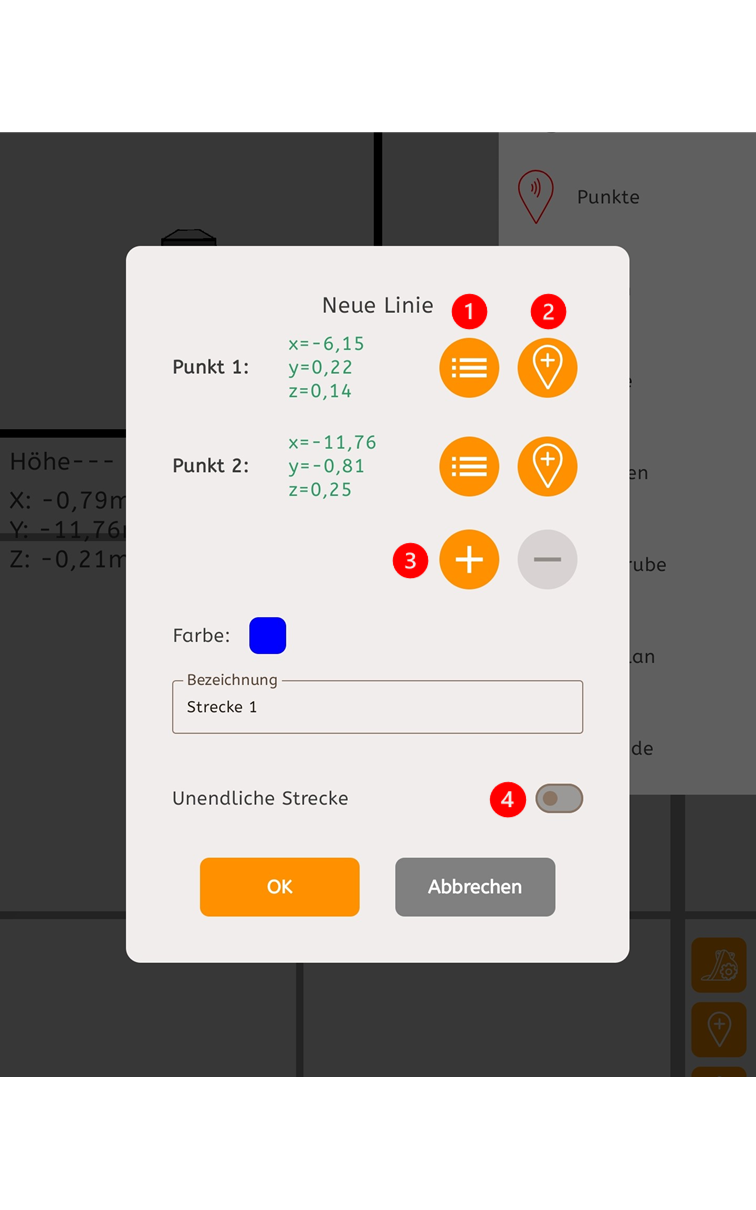
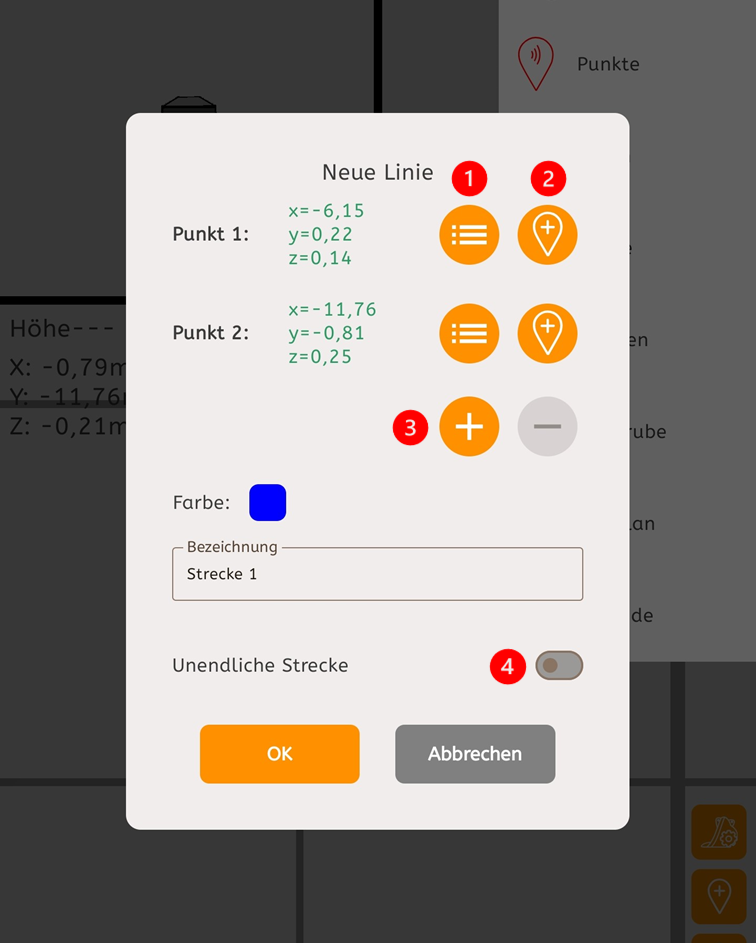
Überarbeitung Kastenelemente | Allgemein

diff --git a/docs/Flächen/Flächen.md b/docs/Flächen/Flächen.md
@@ -14,10 +14,11 @@ Diese Seite befindet sich gerade in Bearbeitung.
 
 Das Erstellen von horizontalen und geneigten Flächen über einen oder optional mehrere Punkte, ist eine der wichtigsten Arbeitsfunktionen der 3D-basierten App-Anwendung des excav PILOT.
 
-Das aktuell ausgewählte Werkzeug oder Sensor wird in der primären Arbeitsansicht räumlich im Verhältnis zur aktiven Fläche dargestellt (farblich in einem dunkleren Grauton abgehoben) sowie in der Frontal- und Seitenansicht im oberen Bildschirmabschnitt. 
+Das aktuell ausgewählte Werkzeug oder Sensor wird in der primären Arbeitsansicht räumlich im Verhältnis zur aktiven Fläche dargestellt (farblich in einem dunkleren Grauton abgehoben) sowie in der Frontal- und Seitenansicht im oberen Bildschirmabschnitt.
 
-!!! info "Information"
-Die Höhenangabe der Fläche bezieht sich auf die Höhenangabe zum Meeresspiegel (exakt 0 Höhenmeter) und kann sich abhängig vom Standort innerhalb von Deutschland und anderswo erheblich unterscheiden. Die für die Arbeit auf der Baustelle vor Ort erforderlichen Angaben zur Positionsbestimmung werden über die Angaben der x-,y- und z-Koordinate dargestellt. 
+
+!!! info "Höhenangabe und Positionsbestimmung"
+    Die Höhenangabe der Fläche bezieht sich auf die Höhenangabe zum Meeresspiegel (exakt 0 Höhenmeter) und kann sich abhängig vom Standort innerhalb von Deutschland und anderswo erheblich unterscheiden. Die für die Arbeit auf der Baustelle vor Ort erforderlichen Angaben zur Positionsbestimmung werden über die Angaben der x-,y- und z-Koordinate dargestellt. 
 
 
 ## Neue Flächen erstellen
@@ -46,10 +47,13 @@ Mit folgenden Funktionen lässt sich die gewünschte Fläche im Raum präziser b
 
 **<span style="color: red; font-weight: bold;">2: &nbsp;</span> Höhenversatz** | Der Faktor Höhenversatz beträgt standardmäßig 0.0 und kann sowohl in Zentimeter (cm) sowie in Meter (m) dargestellt werden. Als Ausrichtungsoptionen kommen die vertikale und orthogonale Ausrichtung infrage. Die Unterschiede zwischen beiden Optionen werden in einem kleinen Informationsfenster näher erklärt. Der Wert des Höhenversatzes kann sowohl positiv als auch negativ sein. 
 
-!!! info "Information"
-Für das Erstellen einer neuen Fläche können sowohl bereits vorhandene Punkte der Punkteliste verwendet oder gänzlich neu eingemessene Punkte verwendet werden. Wir empfehlen Punkte zu verwenden, die bereits zuvor genau bestimmt und eingemessen wurden, um eine Fläche im Bedarfsfall leichter erneut anlegen zu können. 
 
-Über das Zahnrad-Symbol oben rechts öffnet sich das Einstellungs-Fenster. Hier können Sie auswählen, welche Informationen zu den Flächen in Ihrer Flächen-Liste angezeigt werden sollen, darunter den Typ sowie den optional vergebenen Wert des Höhenversatzes einer Fläche.
+!!! info "Tipps zur Flächenerstellung"
+    Für das Erstellen einer neuen Fläche können sowohl bereits vorhandene Punkte der Punkteliste verwendet oder gänzlich neu eingemessene Punkte verwendet werden. Wir empfehlen Punkte zu verwenden, die bereits zuvor genau bestimmt und eingemessen wurden, um eine Fläche im Bedarfsfall leichter erneut anlegen zu können. 
+    
+    Über das Zahnrad-Symbol oben rechts öffnet sich das Einstellungsfenster. Hier können Sie auswählen, welche Informationen zu den Flächen in Ihrer Flächen-Liste angezeigt werden sollen, darunter den Typ sowie den optional vergebenen Wert des Höhenversatzes einer Fläche. 
+
+
 
 ## Eine 1-Punkt Fläche erstellen
 

diff --git a/docs/Bauplan/Bauplan.md b/docs/Bauplan/Bauplan.md
@@ -22,7 +22,7 @@ Wählen Sie in der Arbeitsansicht unten rechts das Füller-Icon aus und dann Bau
 
 Klicken Sie auf "PDF importieren" und wählen Sie das entsprechende .pdf aus der Liste aus.
 
-!!! info "Wichtig"
+!!! info "Datei lokal ablegen"
     Sie müssen die .pdf-Datei zuerst auf das Tablet spielen, indem Sie z.B. das Tablet per USB-C-Kabel mit ihrem Rechner verbinden und den entsprechenden Bauplan als .pdf Datei ablegen. Der Ablageort ist nicht wichtig, Ihnen werden in der Liste alle Dateien im internen Speicher des Tablets vom Dateityp .pdf angezeigt.
 
 
@@ -34,7 +34,7 @@ Klicken Sie auf "PDF importieren" und wählen Sie das entsprechende .pdf aus der
 
 Jetzt müssen wir den Bauplan noch maßstabsgetreu einmessen. Dafür benötigen wir zwei Punkte auf der Baustelle (**Reale Punkte**), welche auch auf dem Bauplan bekannt sind. Zum Beispiel Grenzsteine oder ein Schachtdeckel. Wir tasten die Punkte z.B. mit dem Rover-Stab an und wählen dann im gleichen Zuge die genaue Position des Punktes auf dem .pdf aus (**pdf Punkte**), indem wir das orange Fadenkreuz so exakt wie möglich an die korrekte Stelle im .pdf bewegen.
 
-!!! info "Genauigkeit"
+!!! info "Genauigkeit und Entfernung"
     Umso weiter die realen Punkte voneinander entfernt liegen, desto weniger kritisch sind kleine Positionsfehler zwischen realem Punkt und .pdf-Punkt. Deshalb empfehlen wir die Punkte mindestens mehrere Meter voneinander entfernt auszuwählen. Idealerweise so weit auseinander wie möglich. 
 
 **<span style="color: red; font-weight: bold;">1: &nbsp;</span>** Realen Punkt auf der Baustelle aus der Punkte-Liste auswählen. 
@@ -57,13 +57,13 @@ Gleiches Prozedere auch noch für Punkt 2.
 
 Jetzt noch mit "OK" bestätigen und der Bauplan wird so skaliert und rotiert, sodass er maßstabsgetreu mit korrekter Orientierung in der Arbeitsansicht angezeigt wird. 
 
-!!! info "Nur im 2D-Modus sichtbar"
+!!! info "PDF nur im 2D-Modus sichtbar"
     Der .pdf-Bauplan ist nur im 2D-Modus sichtbar. Siehe [Arbeitsansicht - Hauptarbeitsbereich]() Ziffer **<span style="color: red; font-weight: bold;">3</span>**.
 
-!!! warning ".pdf-Plan enthält keine Höhen"
+!!! warning "PDF-Plan enthält keine Höhen"
     Höhen müssen Sie selbst noch aufnehmen, indem Sie sich z.B. mit dem Rover-Stab auf dem .pdf-Plan orientieren und alle wichtigen [Punkte erfassen](). 
 
-!!! warning "Leichte Ungenauigkeiten bei manchen .pdf-Varianten"
+!!! warning "Leichte Ungenauigkeiten bei manchen Varianten"
     @Emu
 
 

diff --git a/docs/Geräte/Geräte.md b/docs/Geräte/Geräte.md
@@ -58,12 +58,11 @@ In der Ansicht oben wurde im ersten Schritt beispielsweise der GNSS-Sensor verbu
 
 
 !!! warning "Probleme und Problembehebung im Umgang mit den Geräten"
-
-Prüfen Sie zunächst, ob die Internetverbindung über mobile Daten sowie Bluetooth aktiv sind. Zudem müssen beide Geräte ausreichend Akkuleistung verfügen, idealerweise mehr als 20 %, da sonst die Verbindungsqualität und die Performanz darunter leiden können. 
-
-Normalerweise wird (falls mehrere Sensoren zur Verfügung stehen bzw. standen) der letzte aktiv gekoppelte Sensor angezeigt. Sollte der gewünschte Sensor bereits mit der App eines anderen Tablets gekoppelt sein, ist kein Verbindungsaufbau möglich. Hierfür muss zunächst auf dem anderen Tablet die Verbindung zum Sensor beendet werden, bevor Sie ihn auswählen und verbinden können. 
-
-Falls die App des Tablets den Sensor trotz direkter räumlicher Nähe zum Gerät nicht findet, schalten Sie ihn mehrfach an und aus, bis der Verbindungsaufbau gelingt. Dieselben Probleme können ebenfalls mit dem LED-Anzeigekreuz auftreten. Schalten Sie das Gerät mehrfach an und aus, bis der Verbindungsaufbau gelingt und stellen Sie sicher, dass er nicht bereits mit einem anderen Tablet verbunden ist. 
+    Prüfen Sie zunächst, ob die Internetverbindung über mobile Daten sowie Bluetooth aktiv sind. Zudem müssen beide Geräte ausreichend Akkuleistung verfügen, idealerweise mehr als 20 %, da sonst die Verbindungsqualität und die Performanz darunter leiden können. 
+    
+    Normalerweise wird (falls mehrere Sensoren zur Verfügung stehen bzw. standen) der letzte aktiv gekoppelte Sensor angezeigt. Sollte der gewünschte Sensor bereits mit der App eines anderen Tablets gekoppelt sein, ist kein Verbindungsaufbau möglich. Hierfür muss zunächst auf dem anderen Tablet die Verbindung zum Sensor beendet werden, bevor Sie ihn auswählen und verbinden können. 
+    
+    Falls die App des Tablets den Sensor trotz direkter räumlicher Nähe zum Gerät nicht findet, schalten Sie ihn mehrfach an und aus, bis der Verbindungsaufbau gelingt. Dieselben Probleme können ebenfalls mit dem LED-Anzeigekreuz auftreten. Schalten Sie das Gerät mehrfach an und aus, bis der Verbindungsaufbau gelingt und stellen Sie sicher, dass er nicht bereits mit einem anderen Tablet verbunden ist. 
 
 
 <!-- <p align="center" width="100%">

diff --git a/docs/Arbeitsansicht/Arbeitsansicht.md b/docs/Arbeitsansicht/Arbeitsansicht.md
@@ -37,7 +37,7 @@
 
 Der Sensor errechnet die Orientierung mithilfe von Bewegung, d.h. sollte die Orientierung schlecht sein, dann bewegen Sie den Löffel ein wenig vor und zurück bis die Qualität besser wird. Bei schlechtem GNSS-Empfang kann es schwierig sein grüne Orientierung dauerhaft zu erreichen. 
 
-!!! info
+!!! info "Verlust der Orientierung"
       Wenn Sie Ihren Löffel längere Zeit nicht bewegen, kann es sein, dass der Sensor die Orientierung verliert. Er sollte Sie aber schnell wieder finden, wenn Sie die Arbeiten fortsetzen.  
 
 **<span style="color: red; font-weight: bold;">3: &nbsp;</span> Empfangsqualität GNSS** - Gibt an, wie gut der GNSS-Empfang des Sensors ist. 
@@ -62,7 +62,7 @@ Der Sensor errechnet die Orientierung mithilfe von Bewegung, d.h. sollte die Ori
       <span>guter GNSS-Empfang - fix</span>
     </span>
 
-!!! warning "Wichtig"
+!!! warning "Ungestörter Satellitenempfang"
     Der Sensor benötigt freie Sicht zum Himmel, um GNSS-Signale empfangen zu können.
     Umliegende Strukturen wie Metall, Bäume, Hauswände oder auch der menschliche Körper können den Empfang stören oder sogar vollständig blockieren.
     Leichte Störungen lassen sich in der Regel kompensieren, jedoch ist ein zuverlässiger Empfang unter bestimmten Bedingungen nicht möglich – etwa in Waldschneisen, bei tieferen Kanalarbeiten, unter Dächern oder bei Arbeiten unter Wasser.
@@ -89,8 +89,8 @@ Der Sensor errechnet die Orientierung mithilfe von Bewegung, d.h. sollte die Ori
       <span>verbunden</span>
   </span>
 
-!!! warning "Wichtig"
-    Sie benötigen Internet auf Ihrem Tablet, um sich zu verbinden. Entweder Sie nutzen eine SIM-Karte mit mobilem Datenvolumen oder Sie verbinden sich mit einem Wlan (z.B. Hotspot). 
+!!! warning "Internetempfang erforderlich"
+    Sie benötigen Internet auf Ihrem Tablet, um sich zu verbinden. Entweder Sie nutzen eine SIM-Karte mit mobilem Datenvolumen oder Sie verbinden sich mit einem WLAN (z.B. Hotspot). 
 
 Genauere Informationen finden Sie unter [NTRIP](https://docs.excav.de/NTRIP/NTRIP/).
 

diff --git a/docs/Sicherheitshinweise/Sicherheitshinweise.md b/docs/Sicherheitshinweise/Sicherheitshinweise.md
@@ -20,7 +20,7 @@
 !!! danger "Sicherheits- und Warnhinweise"
     An der Unterseite von GNSS-Sensor und LED-Anzeigekreuz befinden sich Starkmagnete zur Anbringung. Um Sachschäden und Verletzungen zu vermeiden, ist im Umgang mit diesen Magneten besondere Vorsicht geboten. Die Magnete können elektronische Geräte wie Hörgeräte, Herzschrittmacher, Computer, Speichermedien sowie Bankkarten beschädigen. Es ist daher jederzeit ein ausreichender Sicherheitsabstand zwischen den Magneten und magnetisch empfindlichen Gegenständen einzuhalten.
     
-    Besondere Vorsicht ist zudem beim Anbringen des GNSS-Sensors und des LED-Anzeigekreuzes erforderlich, da durch die Starkmagnete eine Quetschgefahr für Körperteile besteht. Zusätzlich ist beim Anbringen und Entfernen der Systemelemente auf scharfe Kanten zu achten, um Schnittverletzungen zu vermeiden. Um sowohl die Quetsch- als auch die Schnittgefahr zu reduzieren, sind beim Anbringen und Entfernen der Systemelemente Schutzhandschuhe zu tragen.
+    Vorsicht ist zudem beim Anbringen des GNSS-Sensors und des LED-Anzeigekreuzes erforderlich, da durch die Starkmagnete eine Quetschgefahr für Körperteile besteht. Zusätzlich ist beim Anbringen und Entfernen der Systemelemente auf scharfe Kanten zu achten, um Schnittverletzungen zu vermeiden. Um sowohl die Quetsch- als auch die Schnittgefahr zu reduzieren, sind beim Anbringen und Entfernen der Systemelemente Schutzhandschuhe zu tragen.
     
     Beim Anbringen der Systemelemente ist darauf zu achten, dass diese einen festen Halt am Werkzeug der Baumaschine haben. Befreien Sie daher vor der Anbringung die entsprechenden Stellen von Verunreinigungen und Hindernissen. Das Aufladen der Akkus der einzelnen Systemelemente darf nur unter Beaufsichtigung erfolgen.
     

diff --git a/docs/Gesamtsystem/Gesamtsystem.md b/docs/Gesamtsystem/Gesamtsystem.md
@@ -17,8 +17,8 @@ Diese schematische und kompakte Übersicht zeigt die im Transportkoffer enthalte
 - [Tablethalterung für Rover-Stab und Fahrerkabine](https://docs.excav.de/Tablet%20und%20Halterung/Tablet%20und%20Halterung/)
 - [2x USB-C Ladekabel für Tablet und USB-C 12V-Zigarettenanzünder](https://docs.excav.de/Ladeger%C3%A4t/Ladeger%C3%A4t/)
 - [2x USB-C Ladekabel magnetisch für Sensor und Anzeigekreuz](https://docs.excav.de/Ladeger%C3%A4t/Ladeger%C3%A4t/)
-- [Ladegerät inkl. Netzstecker](https://docs.excav.de/Ladeger%C3%A4t/Ladeger%C3%A4t/)
+- [Ladegerät für die Hardware inkl. Netzstecker](https://docs.excav.de/Ladeger%C3%A4t/Ladeger%C3%A4t/)
 - [Metallrahmen für den GNSS-Sensor](https://docs.excav.de/Metallrahmen/Metallrahmen/)
-- [Hartschalen-Transportkoffer inkl. Schaumstoffinlets](https://docs.excav.de/Transportkoffer/Transportkoffer/)
+- [Transportkoffer inkl. Schaumstoffinlets](https://docs.excav.de/Transportkoffer/Transportkoffer/)
 
 <!-- Auf Wunsch können weitere Komponenten, darunter ein weiterer GNSS-Sensor, der optional als Basisstation zum Erzeugen eigener RTK-Korrekturdaten genutzt werden kann, und ein Metallrahmen zum Schutz der Sensoreinheit, bestellt werden. -->

diff --git a/docs/Ladegerät/Ladegerät.md b/docs/Ladegerät/Ladegerät.md
@@ -12,4 +12,7 @@
 
 Der GNSS-Sensor und das LED-Anzeigekreuz verfügen über einen magnetischen Ladeanschluss seitlich am Gehäuse. Das Tablet besitzt einen regulären USB-C-Anschluss.
 
-Im Lieferumfang sind Netzteil inkl. Netzstecker, 2 magnetische Ladekabel für die Systemelemente, 2 USB-C Ladekabel für das Tablet und ein Netzstecker für den 12V-Anschluss in der Baumaschine enthalten. Alle Bestandteile des Systems können innerhalb von 2,5 Stunden komplett aufgeladen werden. Das Tablet lässt sich in der Baumaschine über das mitgelieferte Ladegerät für den 12V-Anschluss im aktiven Betrieb aufladen.
+Im Lieferumfang sind Netzteil inkl. Netzstecker, 2 magnetische Ladekabel für die Systemelemente, 2 USB-C Ladekabel für das Tablet und ein Netzstecker für den 12V-Anschluss in der Baumaschine enthalten. Alle Bestandteile des Systems können innerhalb von 2,5 Stunden komplett aufgeladen werden. 
+
+!!! info "Aufladen während der Arbeit" 
+    Das Tablet lässt sich in der Baumaschine über das Ladegerät für den 12V-Anschluss im aktiven Betrieb aufladen. 

diff --git a/docs/Punkte/Punkte.md b/docs/Punkte/Punkte.md
@@ -65,11 +65,9 @@ Sie können Punkte auch manuell erfassen, indem Sie das entsprechende Referenzsy
 
 **<span style="color: red; font-weight: bold;">3: &nbsp;</span> Lat/Long** | geografisches Kugel-/Ellipsoid-basiertes Koordinatensystem mit Breite (Latitude, φ) als Nord-/Südwinkel vom Äquator und Länge (Longitude, λ) als Ost-/Westwinkel vom Nullmeridian (Greenwich), Achtung: Winkel in der App bitte als Dezimalzahlen eingeben. Bezugssystem in Europa: ETRS89
 
-**<span style="color: red; font-weight: bold;">4: &nbsp;</span> Local** | Hier können Sie eines Ihrer lokal angelegten [Koordinatensysteme]() auswählen. 
+**<span style="color: red; font-weight: bold;">4: &nbsp;</span> Local** | Hier können Sie eines Ihrer lokal angelegten [Koordinatensysteme]() auswählen.
 
-## Schnelltaste zum Punkte erfassen
-
-!!! info "Tipp"
+!!! info "Schnelltaste zum Punkte erfassen"
     Seitlich rechts in der Arbeitsansicht befindet sich eine Schnelltaste zum Aufnehmen von Punkten (dritter oranger Button von unten). 
 
 <!-- <p align="center" width="100%">

diff --git a/docs/Linien/Linien.md b/docs/Linien/Linien.md
@@ -50,8 +50,8 @@ oder
 
 **<span style="color: red; font-weight: bold;">3: &nbsp;</span> Zusätzlicher Punkt** | Mit dem Plus-Button können Sie der Linie einen weiteren Punkt hinzufügen. 
 
-!!! info "Wichtig"
-    Die Reinfolge in der Sie die Punkte auswählen, bestimmt den Verlauf der Linie. Also P1 -> P2 -> P3 usw. 
+!!! info "Reihenfolge der Punkte"
+    Die Reihenfolge in der Sie die Punkte auswählen, bestimmt den Verlauf der Linie. Also P1 -> P2 -> P3 usw. 
 
 **<span style="color: red; font-weight: bold;">4: &nbsp;</span> Unendliche Strecke /Polylinie schließen** | Bei einer Linie aus zwei Punkten kann die Strecke über beide Punkte hinaus unendlich verlängert werden, z.B. zum Darstellen einer Flucht. Bei einer Polylinie mit mehr als zwei Punkten haben Sie die Option die Polylinie zu schließen. Dabei wird der zuletzt gesetzte Punkt automatisch mit dem zuerst gewählten Punkt verbunden und Sie erhalten ein Polyeder. 
 

diff --git a/docs/Werkzeuge/Werkzeuge.md b/docs/Werkzeuge/Werkzeuge.md
@@ -45,7 +45,7 @@ Detaillierte Ausführungen zu den beiden Verfahren finden Sie auf den jeweiligen
 
 Der Rover-Stab ist standardmäßig als Werkzeug in der App hinterlegt. 
 
-!!! warning "Wichtig!"
+!!! warning "Rover-Stab korrekt aufbauen"
     Bitte verwenden Sie alle vier Komponenten des Rover-Stabs, ansonsten stimmt die Vorabkalibrierung nicht!
 
 Falls Sie Ihren eigenen Rover-Stab mit abweichender Länge kalibrieren möchten, dann muss die Länge von der Stab-Spitze parallel laufend bis zur Gehäuseunterkante des Sensors gemessen werden. Achten Sie bei kürzeren Rover-Stäben darauf, dass Sie den Stab zur Punkterfassung möglichst weit vom Körper weghalten (ausgestreckter Arm). 

diff --git a/docs/Tablet und Halterung/Tablet und Halterung.md b/docs/Tablet und Halterung/Tablet und Halterung.md
@@ -21,5 +21,5 @@ Wenn Sie ein eigenes Tablet verwenden möchten, stellen Sie bitte sicher, dass d
 
 Das Tablet kann über eine Quadlock-Verbindung sowohl am Rover-Stab als auch im Führerhaus des Baggers mittels Saugnapfhalterung an der Innenseite der Kabinenscheibe befestigt werden.
 
-!!! info 
-    Für optimalen Halt empfehlen wir, die Fensterscheibe vor der Montage leicht anzufeuchten. 
+!!! info "Befestigung des Tablets" 
+    Für optimalen Halt empfehlen wir, die Fensterscheibe in der Fahrerkabine vor der Montage leicht anzufeuchten. 
